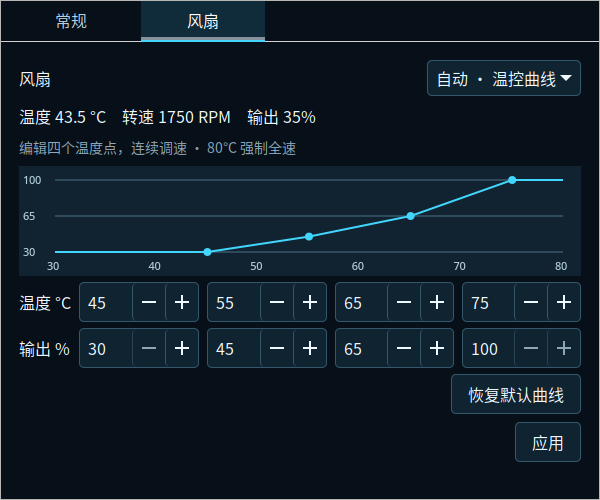
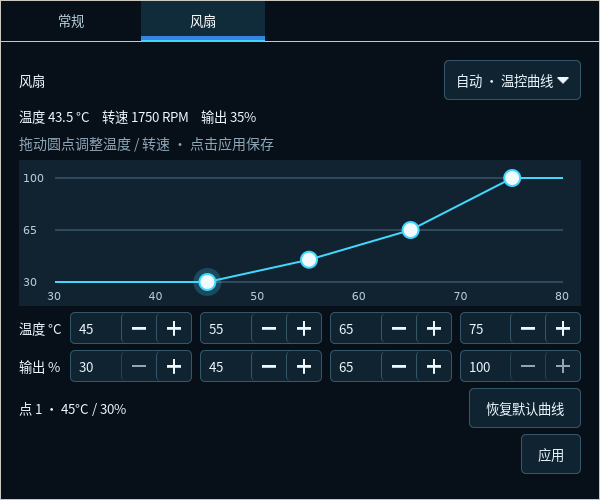
Support touch and mouse dragging in the fan curve editor

diff --git a/src/typix_launcher/fan_panel.py b/src/typix_launcher/fan_panel.py
@@ -3,7 +3,7 @@ from __future__ import annotations
 
 import threading
 
-from gi.repository import GLib, Gtk
+from gi.repository import Gdk, GLib, Gtk
 
 from .fan import DEFAULT_CURVE, FanError, FanState, validate_curve
 from .fan_labels import readings_label
@@ -11,7 +11,7 @@ from .fan_labels import readings_label
 
 class FanPanel(Gtk.Box):
     def __init__(self, controller):
-        super().__init__(orientation=Gtk.Orientation.VERTICAL, spacing=8)
+        super().__init__(orientation=Gtk.Orientation.VERTICAL, spacing=6)
         self.controller = controller
         self.closed = False
         self.timer = 0
@@ -24,6 +24,9 @@ class FanPanel(Gtk.Box):
         self.dirty = False
         self.loading = False
         self.validation_error = ''
+        self.curve_selection = 0
+        self.curve_drag = None
+        self.curve_scroll = None
         self.set_border_width(18)
         self.get_style_context().add_class('fan-panel')
         self.connect("destroy", lambda _widget: self.close())
@@ -75,8 +78,18 @@ class FanPanel(Gtk.Box):
 
         self.curve_box = Gtk.Box(orientation=Gtk.Orientation.VERTICAL, spacing=6)
         self.curve_area = Gtk.DrawingArea()
-        self.curve_area.set_size_request(-1, 110)
+        self.curve_area.set_size_request(-1, 146)
+        self.curve_area.set_can_focus(True)
+        self.curve_area.get_accessible().set_name('温控曲线，Tab 切换节点，方向键微调')
         self.curve_area.connect('draw', self.draw_curve)
+        self.curve_area.connect('key-press-event', self.on_curve_key)
+        self.curve_gesture = Gtk.GestureDrag.new(self.curve_area)
+        self.curve_gesture.set_button(1)
+        self.curve_gesture.set_propagation_phase(Gtk.PropagationPhase.CAPTURE)
+        self.curve_gesture.connect('drag-begin', self.on_curve_begin)
+        self.curve_gesture.connect('drag-update', self.on_curve_drag)
+        self.curve_gesture.connect('drag-end', self.on_curve_end)
+        self.curve_gesture.connect('cancel', self.on_curve_cancel)
         self.curve_box.pack_start(self.curve_area, False, False, 0)
         grid = Gtk.Grid(column_spacing=8, row_spacing=6)
         self.curve_inputs = []
@@ -98,7 +111,12 @@ class FanPanel(Gtk.Box):
         self.reset_curve = Gtk.Button(label='恢复默认曲线')
         self.reset_curve.set_halign(Gtk.Align.END)
         self.reset_curve.connect('clicked', self.on_reset_curve)
-        self.curve_box.pack_start(self.reset_curve, False, False, 0)
+        curve_footer = Gtk.Box(spacing=8)
+        self.curve_point = Gtk.Label(xalign=0)
+        self.curve_point.set_hexpand(True)
+        curve_footer.pack_start(self.curve_point, True, True, 0)
+        curve_footer.pack_end(self.reset_curve, False, False, 0)
+        self.curve_box.pack_start(curve_footer, False, False, 0)
         self.curve_box.show_all()
         self.curve_box.set_no_show_all(True)
         self.pack_start(self.curve_box, False, False, 0)
@@ -126,6 +144,8 @@ class FanPanel(Gtk.Box):
 
     def close(self):
         self.closed = True
+        self.curve_drag = None
+        self.release_curve_scroll()
         if self.timer:
             GLib.source_remove(self.timer)
             self.timer = 0
@@ -143,7 +163,116 @@ class FanPanel(Gtk.Box):
         self.manual_row.set_visible(manual)
         self.curve_box.set_visible(not manual)
         self.hint.set_text("拖动滑块或输入 30–100% · 80°C 强制全速" if manual else
-                           "编辑四个温度点，连续调速 · 80°C 强制全速")
+                           "拖动圆点调整温度 / 转速 · 点击应用保存")
+        temperature, percent = self.curve_values()[self.curve_selection]
+        self.curve_point.set_text(f'点 {self.curve_selection + 1} · {temperature}°C / {percent}%')
+
+    def curve_geometry(self):
+        return (36, max(50, self.curve_area.get_allocated_width() - 18),
+                18, max(32, self.curve_area.get_allocated_height() - 24))
+
+    def curve_position(self, temperature, percent):
+        left, right, top, bottom = self.curve_geometry()
+        return (left + (right - left) * (temperature - 30) / 50,
+                bottom - (bottom - top) * (percent - 30) / 70)
+
+    def curve_editable(self):
+        return (self.last_state.available and not self.busy and not self.closed
+                and self.mode.get_active_id() == 'auto' and not self.validation_error)
+
+    def move_curve_point(self, index, temperature, percent):
+        points = self.curve_values()
+        lower_t = points[index - 1][0] + 1 if index else 30
+        upper_t = points[index + 1][0] - 1 if index < 3 else 80
+        lower_p = points[index - 1][1] if index else 30
+        upper_p = points[index + 1][1] if index < 3 else 100
+        temperature = max(lower_t, min(upper_t, round(temperature)))
+        percent = 100 if index == 3 else max(lower_p, min(upper_p, round(percent)))
+        if (temperature, percent) != points[index]:
+            self.loading = True
+            self.curve_inputs[index][0].set_value(temperature)
+            self.curve_inputs[index][1].set_value(percent)
+            self.loading = False
+            self.on_draft_changed(self.curve_area)
+
+    def on_curve_begin(self, gesture, x, y):
+        if not self.curve_editable():
+            gesture.set_state(Gtk.EventSequenceState.DENIED)
+            return
+        points = self.curve_values()
+        distances = [((px - x) ** 2 + (py - y) ** 2, index)
+                     for index, point in enumerate(points) for px, py in [self.curve_position(*point)]]
+        distance, index = min(distances)
+        if distance > 28 ** 2:
+            # A swipe outside the large handle target remains normal page scrolling.
+            gesture.set_state(Gtk.EventSequenceState.DENIED)
+            return
+        self.curve_selection = index
+        scroll = self.get_ancestor(Gtk.ScrolledWindow)
+        if scroll:
+            self.curve_scroll = (scroll, scroll.get_kinetic_scrolling())
+            scroll.set_kinetic_scrolling(False)
+        self.curve_drag = (points, self.dirty, self.feedback, self.message.get_text())
+        self.curve_area.grab_focus()
+        gesture.set_state(Gtk.EventSequenceState.CLAIMED)
+        self.update_controls()
+        self.curve_area.queue_draw()
+
+    def on_curve_drag(self, _gesture, dx, dy):
+        if not self.curve_drag or not self.curve_editable():
+            return
+        start = self.curve_drag[0][self.curve_selection]
+        x, y = self.curve_position(*start)
+        left, right, top, bottom = self.curve_geometry()
+        self.move_curve_point(self.curve_selection, 30 + (x + dx - left) * 50 / (right - left),
+                              30 + (bottom - y - dy) * 70 / (bottom - top))
+
+    def on_curve_end(self, gesture, dx, dy):
+        self.on_curve_drag(gesture, dx, dy)
+        self.curve_drag = None
+        self.release_curve_scroll()
+        self.curve_area.queue_draw()
+
+    def on_curve_cancel(self, _gesture, _sequence):
+        if self.curve_drag:
+            points, dirty, feedback, message = self.curve_drag
+            self.curve_drag = None
+            self.loading = True
+            for (temp, duty), (temperature, percent) in zip(self.curve_inputs, points):
+                temp.set_value(temperature)
+                duty.set_value(percent)
+            self.loading = False
+            self.on_draft_changed(self.curve_area)
+            self.dirty, self.feedback = dirty, feedback
+            self.message.set_text(message)
+        self.release_curve_scroll()
+
+    def release_curve_scroll(self):
+        if self.curve_scroll:
+            scroll, kinetic = self.curve_scroll
+            self.curve_scroll = None
+            scroll.set_kinetic_scrolling(kinetic)
+
+    def on_curve_key(self, _widget, event):
+        if not self.curve_editable():
+            return False
+        if event.keyval in (Gdk.KEY_Tab, Gdk.KEY_ISO_Left_Tab):
+            direction = -1 if event.state & Gdk.ModifierType.SHIFT_MASK or event.keyval == Gdk.KEY_ISO_Left_Tab else 1
+            target = self.curve_selection + direction
+            if not 0 <= target < 4:
+                return False
+            self.curve_selection = target
+        elif event.keyval in (Gdk.KEY_Left, Gdk.KEY_Right, Gdk.KEY_Up, Gdk.KEY_Down):
+            temperature, percent = self.curve_values()[self.curve_selection]
+            step = 5 if event.state & Gdk.ModifierType.SHIFT_MASK else 1
+            temperature += step * ((event.keyval == Gdk.KEY_Right) - (event.keyval == Gdk.KEY_Left))
+            percent += step * ((event.keyval == Gdk.KEY_Up) - (event.keyval == Gdk.KEY_Down))
+            self.move_curve_point(self.curve_selection, temperature, percent)
+        else:
+            return False
+        self.update_controls()
+        self.curve_area.queue_draw()
+        return True
 
     def curve_values(self):
         return tuple((temp.get_value_as_int(), duty.get_value_as_int()) for temp, duty in self.curve_inputs)
@@ -161,7 +290,7 @@ class FanPanel(Gtk.Box):
 
     def draw_curve(self, widget, context):
         width, height = widget.get_allocated_width(), widget.get_allocated_height()
-        left, right, top, bottom = 36, max(50, width - 18), 14, height - 24
+        left, right, top, bottom = self.curve_geometry()
         x = lambda temperature: left + (right - left) * (temperature - 30) / 50
         y = lambda percent: bottom - (bottom - top) * (percent - 30) / 70
         context.set_source_rgb(.07, .14, .19)
@@ -183,9 +312,17 @@ class FanPanel(Gtk.Box):
         for temperature, percent in points:
             context.line_to(x(temperature), y(percent))
         context.line_to(x(80), y(100)); context.stroke()
-        for temperature, percent in points:
-            context.arc(x(temperature), y(percent), 4, 0, 6.283185)
+        for index, (temperature, percent) in enumerate(points):
+            if index == self.curve_selection:
+                context.set_source_rgba(.26, .84, 1, .22)
+                context.arc(x(temperature), y(percent), 14, 0, 6.283185)
+                context.fill()
+            context.set_source_rgb(.94, .98, 1)
+            context.arc(x(temperature), y(percent), 8, 0, 6.283185)
             context.fill()
+            context.set_source_rgb(.26, .84, 1)
+            context.arc(x(temperature), y(percent), 8, 0, 6.283185)
+            context.stroke()
         return False
 
     def on_draft_changed(self, _widget):

diff --git a/tools/check-fan-touch-ui.py b/tools/check-fan-touch-ui.py
@@ -1,0 +1,138 @@
+#!/usr/bin/env python3
+"""Inject GTK touch/mouse events into the isolated fan preview; no hardware writes."""
+from pathlib import Path
+import sys
+import time
+from unittest.mock import patch
+
+sys.path.insert(0, str(Path(__file__).resolve().parents[1] / 'src'))
+import preview
+from typix_launcher.app import Gtk, Gdk
+from typix_launcher.fan import FanController, validate_curve
+from typix_launcher.fan_panel import FanPanel
+
+
+def settle():
+    end = time.monotonic() + .08
+    while time.monotonic() < end:
+        while Gtk.events_pending():
+            Gtk.main_iteration_do(False)
+        time.sleep(.005)
+
+
+def main():
+    preview.require_display()
+    application = preview.Preview()
+    application.register(None)
+    application.load_css()
+    control = preview.PreviewFanController()
+    window = Gtk.Window()
+    panel = FanPanel(control)
+    scroll = Gtk.ScrolledWindow()
+    scroll.set_kinetic_scrolling(True)
+    scroll.set_capture_button_press(False)
+    scroll.add(panel)
+    window.add(scroll)
+    window.set_default_size(600, 430)
+    panel.render_state(control.state())
+    window.show_all()
+    settle()
+    area = panel.curve_area
+    pointer = Gdk.Display.get_default().get_default_seat().get_pointer()
+
+    def event(kind, x, y):
+        packet = Gdk.Event.new(kind)
+        packet.window = area.get_window()
+        packet.send_event = True
+        packet.time = Gdk.CURRENT_TIME
+        packet.x, packet.y = x, y
+        packet.set_device(pointer)
+        if kind in (Gdk.EventType.TOUCH_BEGIN, Gdk.EventType.TOUCH_UPDATE,
+                    Gdk.EventType.TOUCH_END, Gdk.EventType.TOUCH_CANCEL):
+            # Primary touch with pointer emulation, as exposed by GTK3 touchscreens.
+            packet.emulating_pointer = True
+        else:
+            packet.state = Gdk.ModifierType.BUTTON1_MASK if kind != Gdk.EventType.BUTTON_PRESS else Gdk.ModifierType(0)
+            if kind != Gdk.EventType.MOTION_NOTIFY:
+                packet.button = 1
+        Gtk.main_do_event(packet)
+        settle()
+
+    def forbidden(*_args, **_kwargs):
+        raise AssertionError('Touch editing must not read/write real fan hardware')
+
+    try:
+        with patch.object(FanController, 'state', forbidden), patch.object(FanController, 'apply', forbidden), \
+             patch.object(control, 'apply', forbidden):
+            before = panel.curve_values()
+            x, y = panel.curve_position(*before[1])
+            event(Gdk.EventType.TOUCH_BEGIN, x + 16, y + 8)
+            assert panel.curve_drag is not None and panel.curve_selection == 1
+            assert panel.curve_values() == before, 'off-center touch made the point jump'
+            page_position = scroll.get_vadjustment().get_value()
+            event(Gdk.EventType.TOUCH_UPDATE, x + 36, y - 7)
+            assert panel.curve_values()[1][0] > before[1][0]
+            assert panel.curve_values()[1][1] > before[1][1]
+            assert scroll.get_vadjustment().get_value() == page_position, 'page stole the point drag'
+            event(Gdk.EventType.TOUCH_UPDATE, x + 10000, y - 10000)
+            assert panel.curve_values()[1] == (before[2][0] - 1, before[2][1])
+            event(Gdk.EventType.TOUCH_END, x + 10000, y - 10000)
+            assert panel.curve_drag is None and panel.dirty
+            validate_curve(panel.curve_values())
+            edited = panel.curve_values()
+            panel.render_state(control.state())
+            assert panel.curve_values() == edited, 'telemetry refresh replaced the draft'
+
+            # A real TOUCH_CANCEL from GTK must restore the pre-drag draft.
+            x, y = panel.curve_position(*edited[1])
+            event(Gdk.EventType.TOUCH_BEGIN, x, y)
+            event(Gdk.EventType.TOUCH_UPDATE, x - 30, y + 20)
+            assert panel.curve_values() != edited
+            event(Gdk.EventType.TOUCH_CANCEL, x - 30, y + 20)
+            assert panel.curve_values() == edited, 'cancelled touch retained changed values'
+            assert panel.curve_drag is None
+
+            # Mouse input uses the same GTK gesture and preserves the 100% endpoint.
+            x, y = panel.curve_position(*panel.curve_values()[3])
+            event(Gdk.EventType.BUTTON_PRESS, x, y)
+            event(Gdk.EventType.MOTION_NOTIFY, x - 20, y + 80)
+            event(Gdk.EventType.BUTTON_RELEASE, x - 20, y + 80)
+            assert panel.curve_values()[3][1] == 100
+            validate_curve(panel.curve_values())
+
+            unchanged = panel.curve_values()
+            event(Gdk.EventType.TOUCH_BEGIN, 1, 1)
+            assert panel.curve_drag is None
+            event(Gdk.EventType.TOUCH_END, 1, 1)
+            assert panel.curve_values() == unchanged
+            panel.busy = True
+            panel.update_controls()
+            x, y = panel.curve_position(*unchanged[0])
+            event(Gdk.EventType.TOUCH_BEGIN, x, y)
+            event(Gdk.EventType.TOUCH_UPDATE, x + 20, y - 20)
+            event(Gdk.EventType.TOUCH_END, x + 20, y - 20)
+            assert panel.curve_values() == unchanged and panel.curve_drag is None
+            panel.busy = False
+            panel.update_controls()
+
+            panel.curve_selection = 0
+            key = Gdk.Event.new(Gdk.EventType.KEY_PRESS)
+            key.state = Gdk.ModifierType(0)
+            key.keyval = Gdk.KEY_Right
+            assert panel.on_curve_key(area, key)
+            assert panel.curve_values()[0][0] == unchanged[0][0] + 1
+            key.keyval = Gdk.KEY_Tab
+            assert panel.on_curve_key(area, key) and panel.curve_selection == 1
+            panel.curve_selection = 3
+            assert not panel.on_curve_key(area, key), 'Tab cannot leave the chart'
+            panel.close()
+            key.keyval = Gdk.KEY_Up
+            assert not panel.on_curve_key(area, key)
+        print('PASS: GTK touch drag, large hit target, no jump, no scroll steal, constrained points, cancel rollback, mouse, keyboard, busy guard, draft-only edits')
+    finally:
+        panel.close()
+        window.destroy()
+
+
+if __name__ == '__main__':
+    main()

diff --git a/src/typix_launcher/app.py b/src/typix_launcher/app.py
@@ -475,6 +475,7 @@ class Launcher(Gtk.Application):
         self.fan_panel = panel = FanPanel(self.fan)
         fan_scroll = Gtk.ScrolledWindow()
         fan_scroll.set_policy(Gtk.PolicyType.NEVER, Gtk.PolicyType.AUTOMATIC)
+        fan_scroll.set_capture_button_press(False)
         fan_scroll.add(panel)
         notebook.append_page(fan_scroll, Gtk.Label(label='风扇'))
         try:

diff --git a/src/typix_launcher/__init__.py b/src/typix_launcher/__init__.py
@@ -1,3 +1,3 @@
 """TypixDeck native GTK3 launcher and application supervisor."""
 
-__version__ = "0.3.3"
+__version__ = "0.3.4"

diff --git a/README.md b/README.md
@@ -81,13 +81,15 @@ sh install.sh --start
 
 配置：`$XDG_CONFIG_HOME/typix-launcher/runtime.json`（默认 `~/.config/typix-launcher/runtime.json`），写入失败保留原设置。源码预览使用内存中的演示设置，不写这个文件。
 
-## 风扇温控曲线 / 手动调速（0.3.3）
+## 风扇温控曲线 / 手动调速（0.3.4）
 
-设置（F9）→ **风扇**：选择“自动 · 温控曲线”，编辑四组温度 / 百分比，曲线图即时预览；选择“手动 · 固定转速”，拖动滑块或直接输入 30–100%。点击“应用”后通过系统管理员认证并保存，显示 CPU 温度、实际 PWM 和 RPM。80°C 及以上、传感器异常或持续没有转速反馈时请求全速。配置和独立温控服务在关闭 Launcher 后继续生效，首次安装不自动启用。
+设置（F9）→ **风扇**：选择“自动 · 温控曲线”，直接用手指或鼠标拖动圆点，横向调整温度、纵向调整输出，下面的四组数字同步更新，也可以直接编辑数字。Tab 切换曲线节点，方向键微调，Shift + 方向键每次调整 5。拖动自动保持温度递增、输出不递减及最高点 100%，触摸取消会恢复本次拖动前的值；拖动图表外仍可滚动页面。
+
+选择“手动 · 固定转速”，拖动滑块或直接输入 30–100%。上述修改都先作为草稿，点击“应用”后通过系统管理员认证并保存，显示 CPU 温度、实际 PWM 和 RPM。80°C 及以上、传感器异常或持续没有转速反馈时请求全速。配置和独立温控服务在关闭 Launcher 后继续生效，首次安装不自动启用。
 
 ![可编辑风扇温控曲线](docs/screenshots/fan-curve.png)
 
-0.3.3 风扇设置，在 CM4 GTK 中渲染的隔离演示；图中为演示读数。
+0.3.4 风扇设置，800×600 GTK 隔离演示；图中为演示读数。
 
 适用于已启用驱动的 TypixDeck CN5 / EMC2301；运行时校验控制器，不固定 I²C 或 hwmon 编号。未检测到驱动或已有内核温控冲突时禁用调速。首次驱动配置、控制边界和本轮真机验收限制见 [风扇控制](docs/FAN-CONTROL.md)。预览使用演示风扇，不需要 root，不读写设备。
 
@@ -177,7 +179,7 @@ Store 使用固定 `--open-installed <package> <desktopFile>` 启动接口。Lau
 产物：
 
 ```text
-dist/typix-launcher_0.3.3-1_all.deb
+dist/typix-launcher_0.3.4-1_all.deb
 ```
 
 运行依赖：
